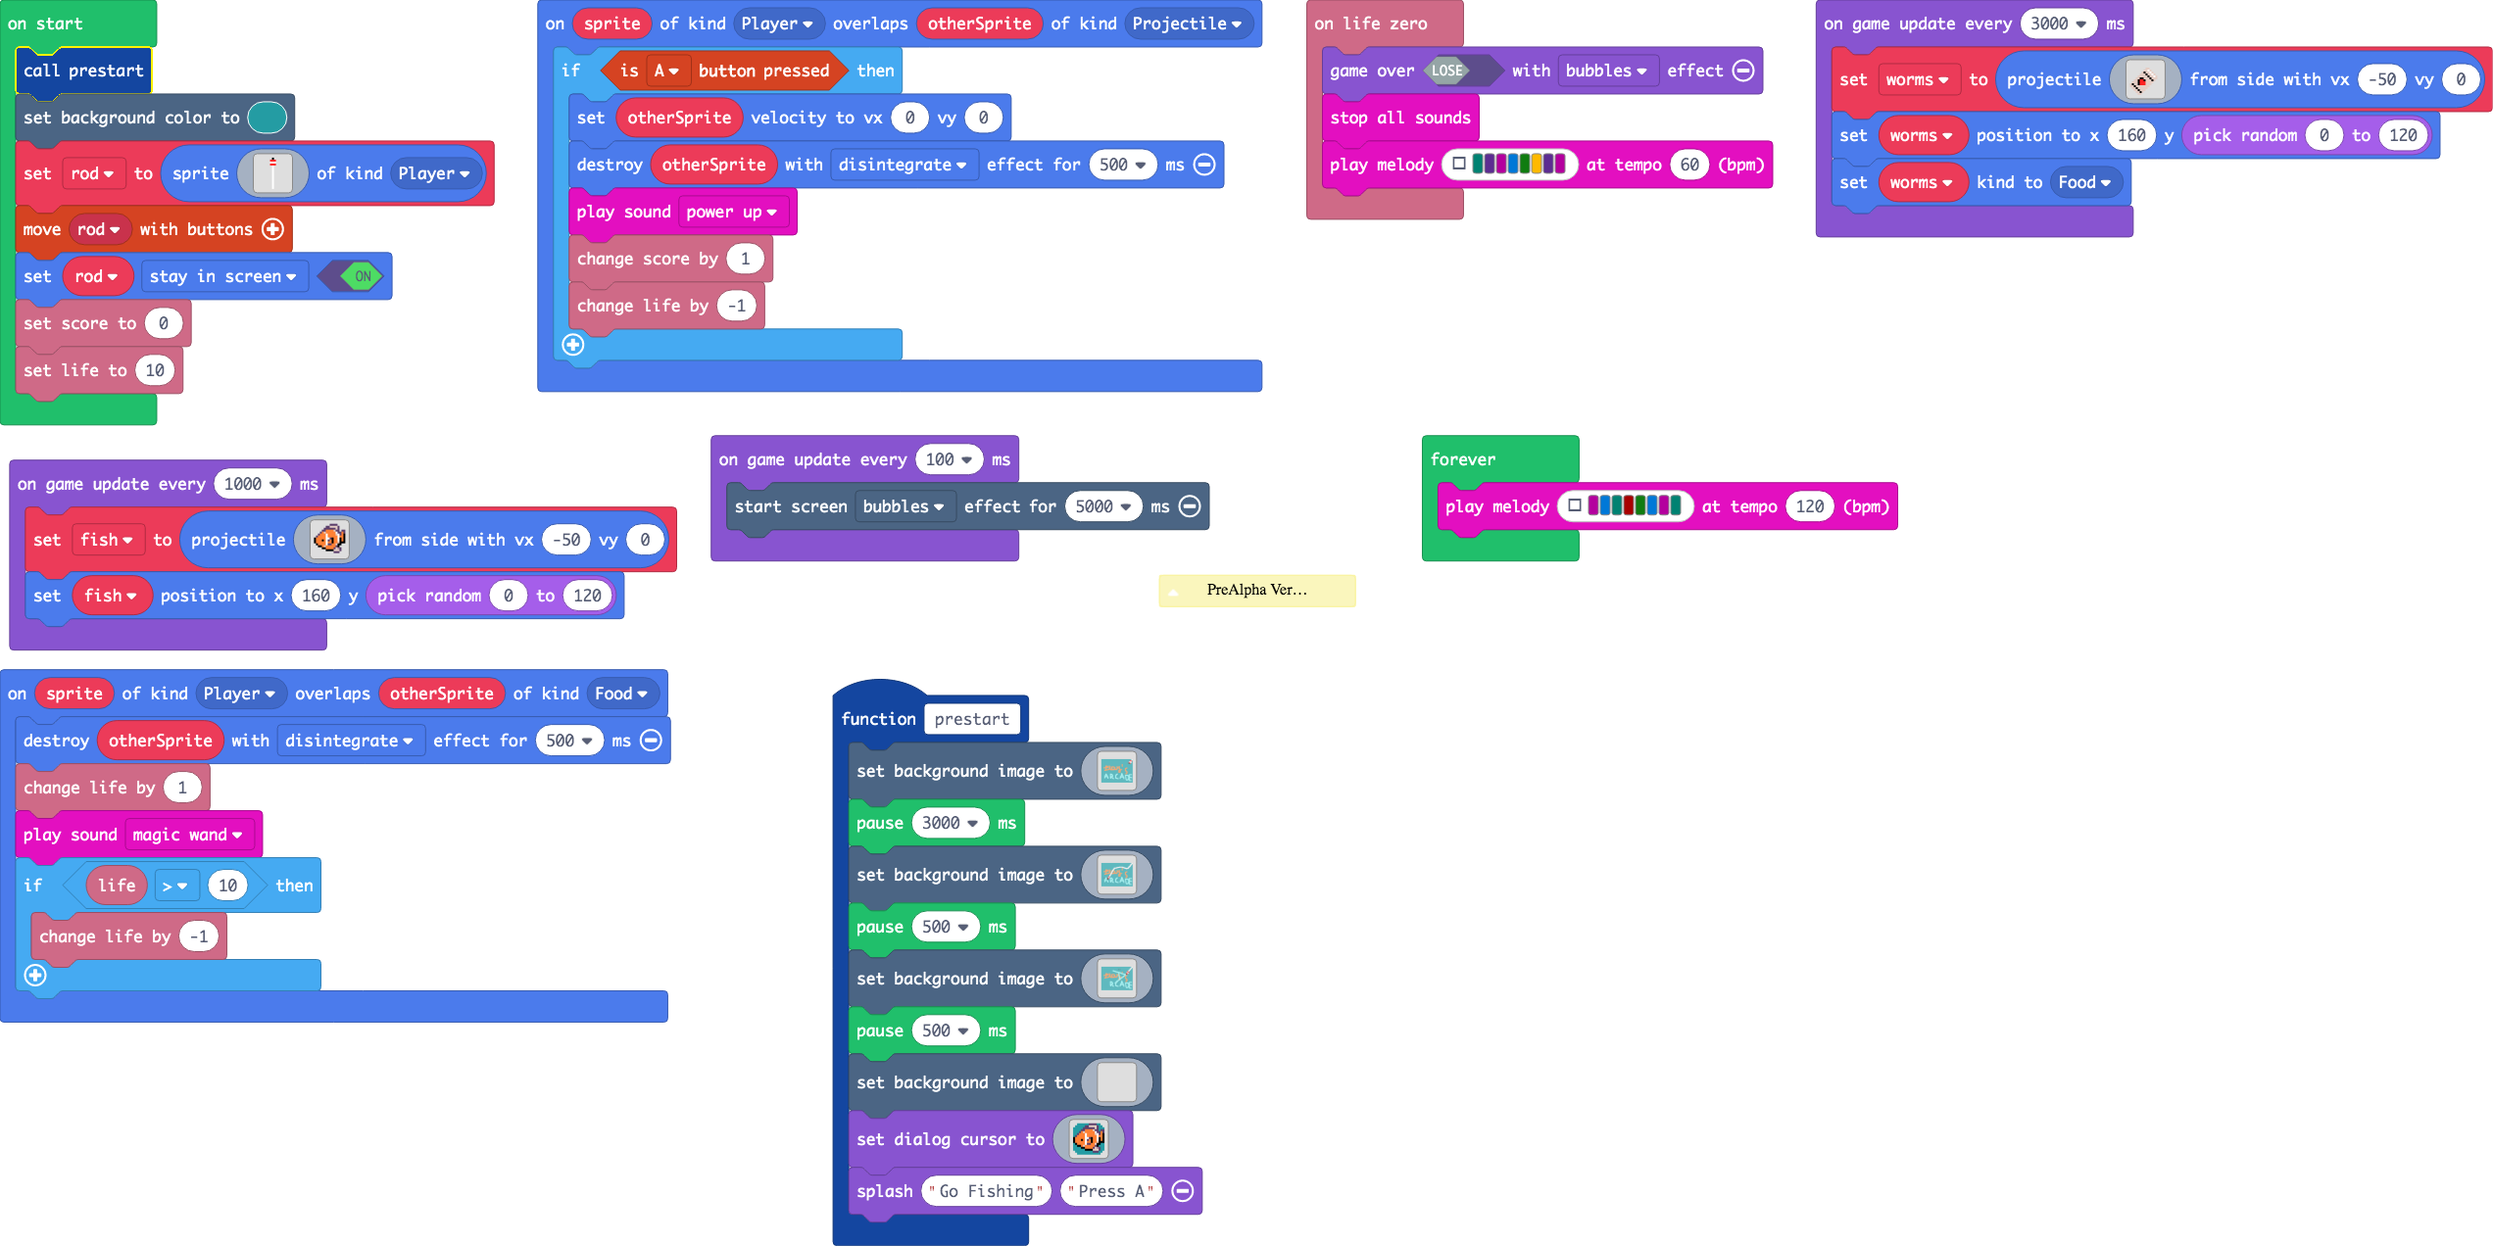
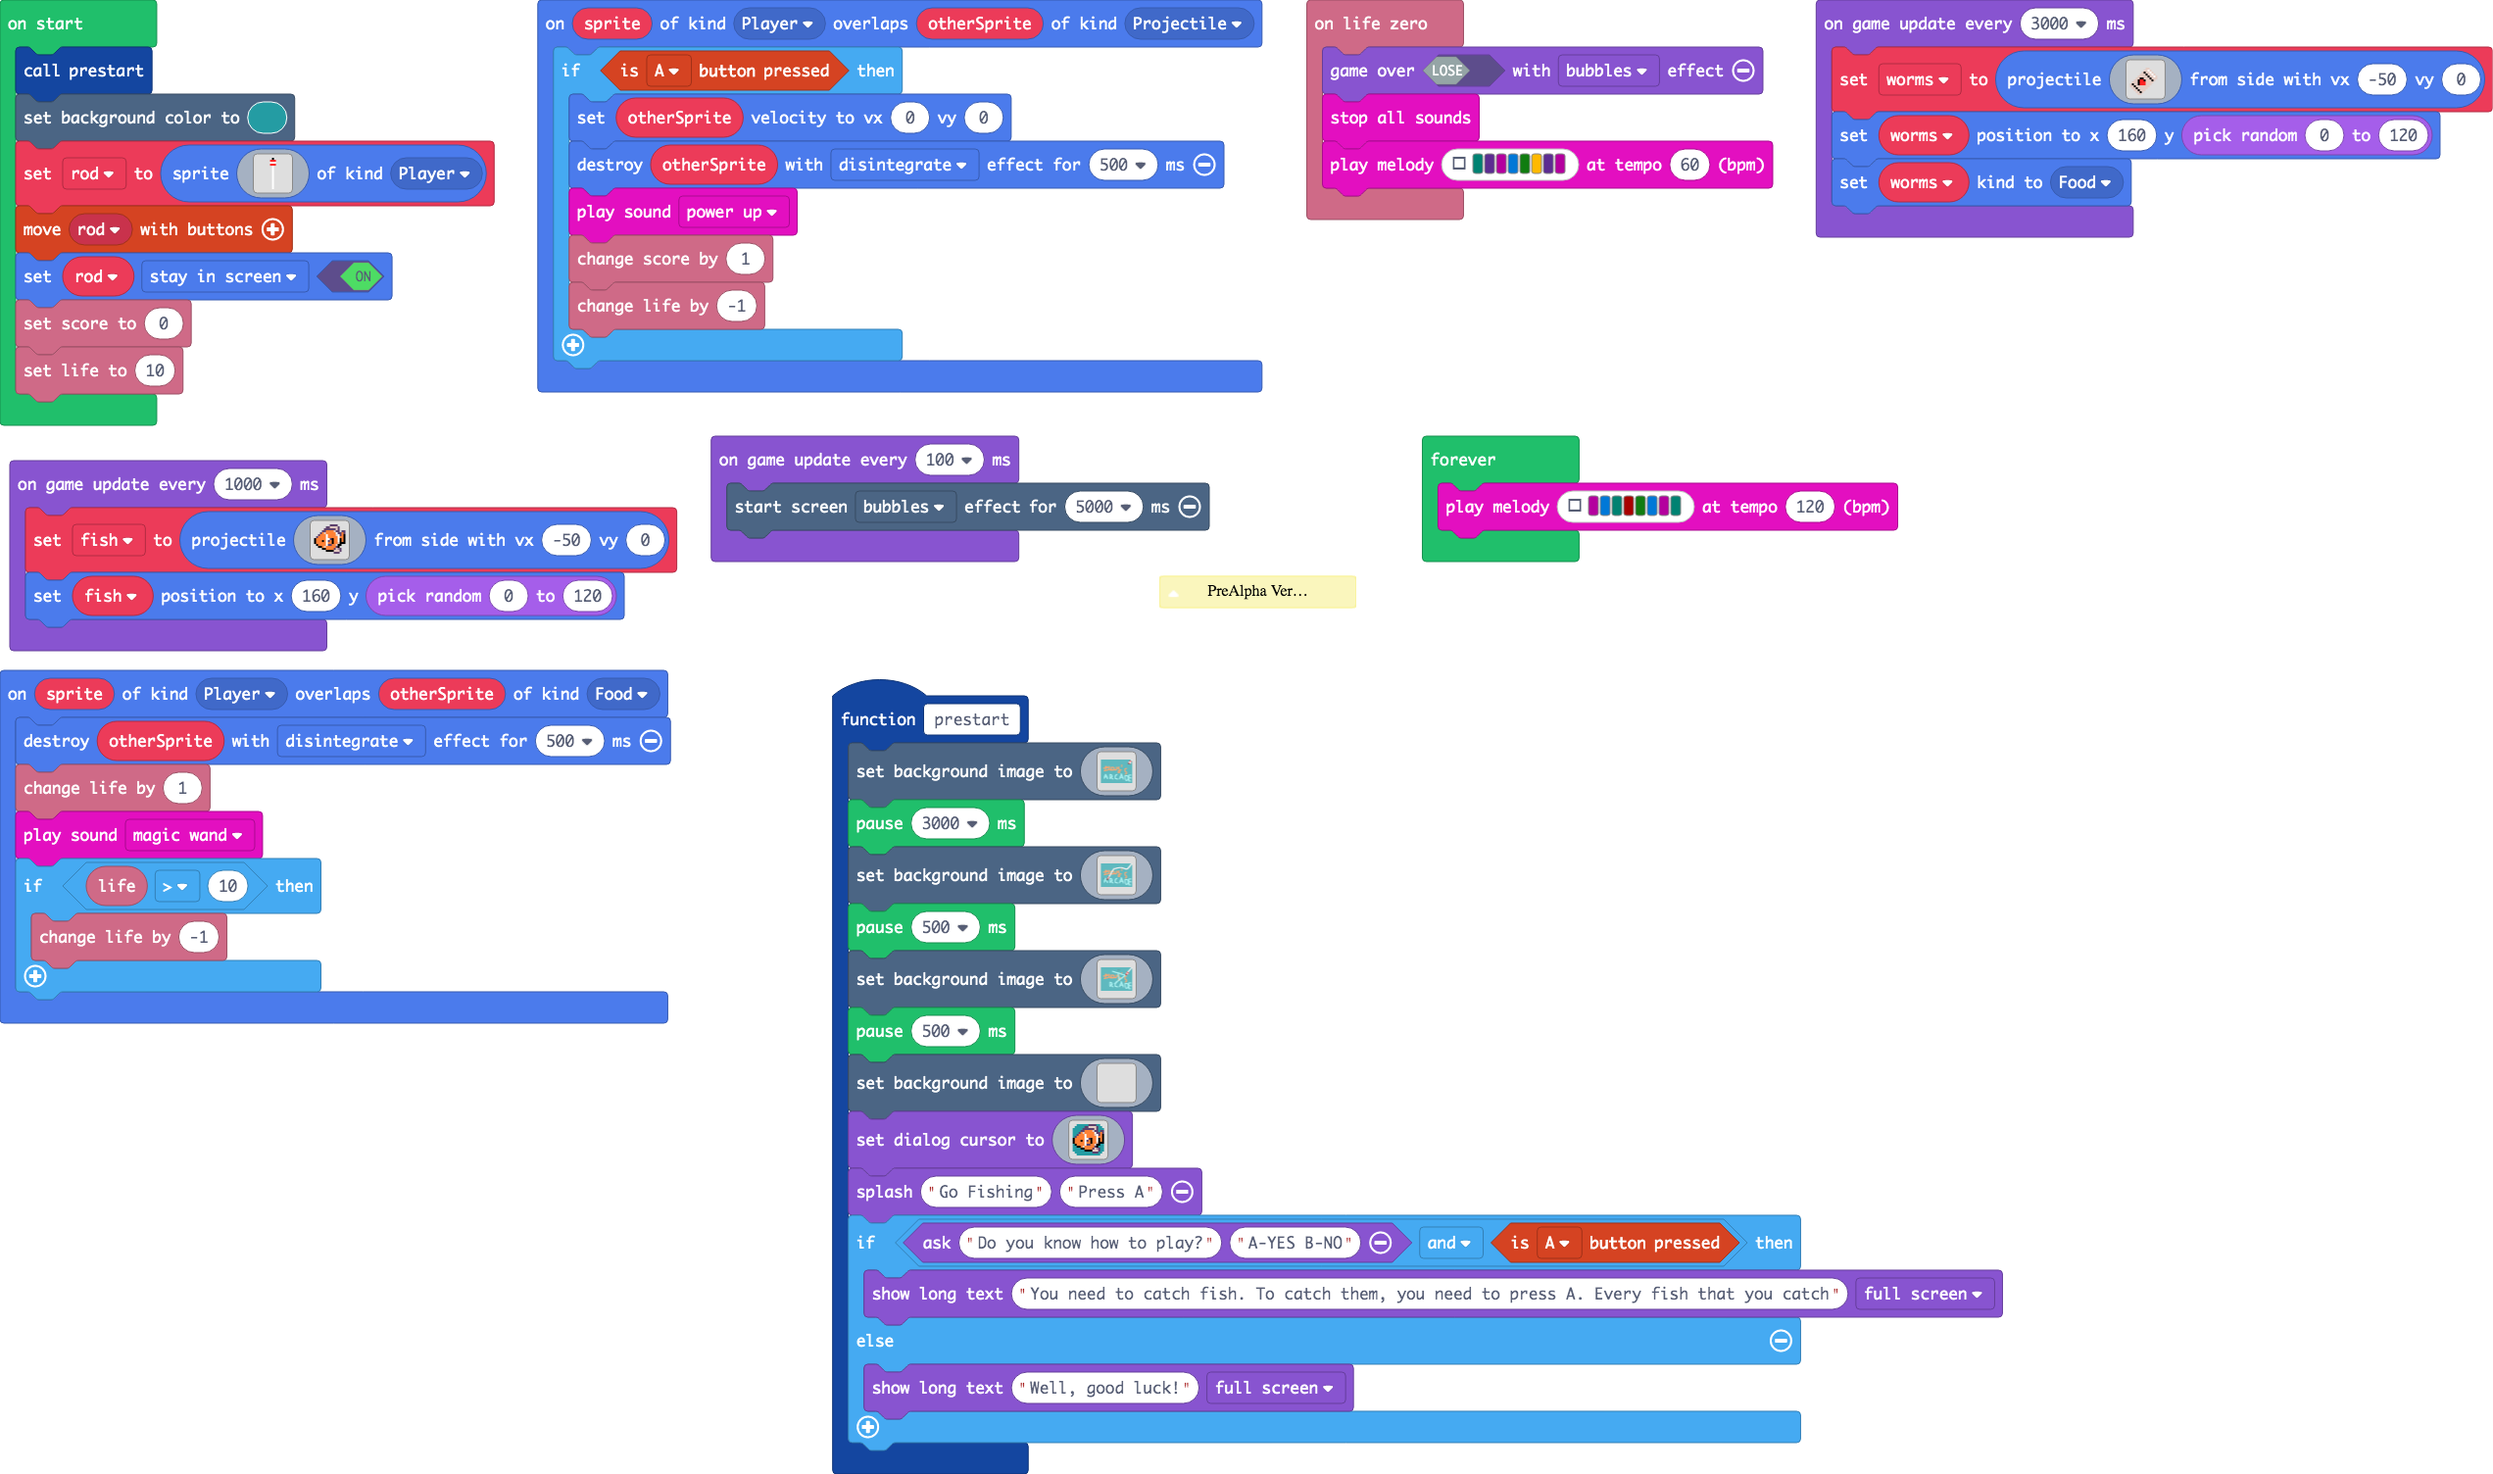
Update main.blocks, main.ts

diff --git a/main.ts b/main.ts
@@ -512,6 +512,11 @@ f 4 4 4 4 4 1 4 4 f 4 4 d f f f
 . . 6 6 6 6 6 6 6 6 6 6 6 6 . . 
 `)
     game.splash("Go Fishing", "Press A")
+    if (game.ask("Do you know how to play?", "A-YES B-NO") && controller.A.isPressed()) {
+        game.showLongText("You need to catch fish. To catch them, you need to press A. Every fish that you catch", DialogLayout.Full)
+    } else {
+        game.showLongText("Well, good luck!", DialogLayout.Full)
+    }
 }
 sprites.onOverlap(SpriteKind.Player, SpriteKind.Food, function (sprite, otherSprite) {
     otherSprite.destroy(effects.disintegrate, 500)
